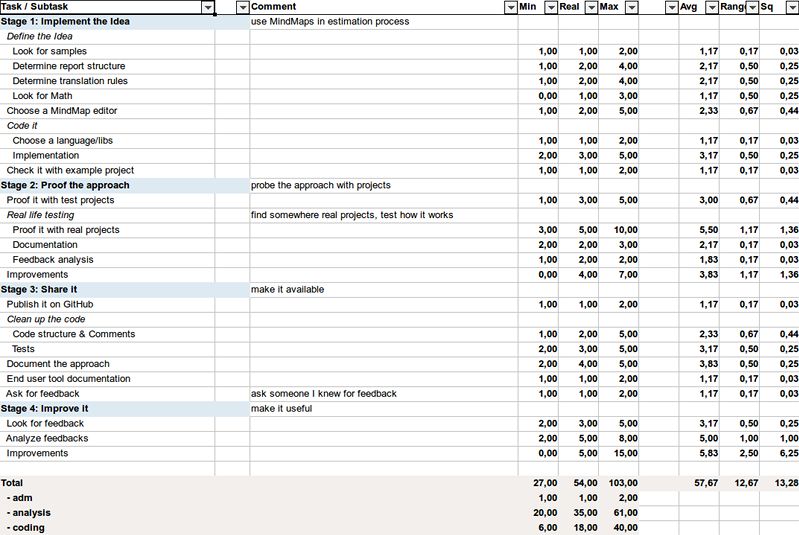
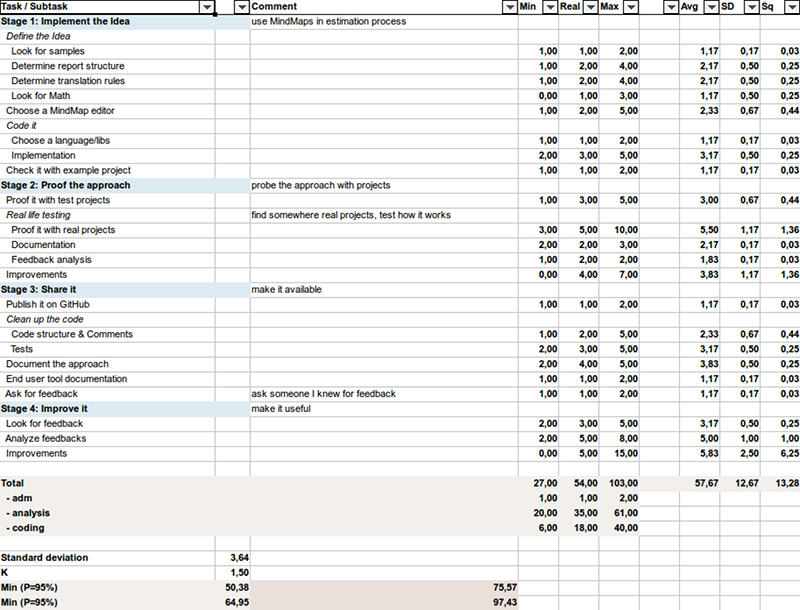
Improvements & documentation

Changed region(s): [[0.0, 0.0, 1.0, 1.0], [0.2703, 0.8972, 0.3304, 1.0]]

diff --git a/src/estimate.py b/src/estimate.py
@@ -117,16 +117,10 @@ class Node:
         return None
 
 
+
 # processor helper
 class Processor:
     """Helper class which does all transformation work"""
-
-    SORTING = False
-
-    class Colors:
-        SECTION_0 = '#DEEAF2'
-        TOTAL     = '#F2EFED'
-        FINAL     = '#E9DFDB'
 
     import re
     RE_ESTIMATE = re.compile("estimate\\s*=(\\s*\\d+\\s*)[/](\\s*\\d+\\s*)[/](\\s*\\d+\\s*)")
@@ -139,19 +133,40 @@ class Processor:
         'impl': ('comment', '')
     }
 
+    @staticmethod
+    def _loadTheme(path):
+        if (path is not None):
+            import importlib
+            module = importlib.load_module(path)
+            theme = module.Theme
+            if (theme is not None): return theme
+
+        class Theme:
+            SECTION_0 = '#DEEAF2'
+            TOTAL     = '#F2EFED'
+            FINAL     = '#E9DFDB'
+
+        return Theme
+
+    #
+    def __init__(self, options):
+        self._sorting = options.sorting and True or False
+        self._theme = Processor._loadTheme(options.theme)
+        self._p99 = options.p99 and True or False
 
     @staticmethod
     def _text(xmlNode):
+        # TODO: case insensitive attributes
         return xmlNode.getAttribute('TEXT') # xmind style for attributes
 
-    @staticmethod
-    def _process(parent, xmlNodes):
+    #
+    def _process(self, parent, xmlNodes):
         required = 0
 
         xmlNodes = [ n for n in xmlNodes if n.nodeType == n.ELEMENT_NODE ]
         xmlNodes = [ n for n in xmlNodes if n.tagName == 'node' ]
 
-        if (Processor.SORTING):
+        if (self._sorting):
             xmlNodes.sort(lambda x, y: cmp(Processor._text(x), Processor._text(y)))
 
         for xmlNode in xmlNodes:
@@ -182,7 +197,7 @@ class Processor:
 
             # else
             node = Node(parent, title)
-            node = Processor._process(node, xmlNode.childNodes)
+            node = self._process(node, xmlNode.childNodes)
             if (node is not None):
                 parent.append(node)
                 required = 1
@@ -190,9 +205,8 @@ class Processor:
         if (required): return parent
         return None
 
-
-    @staticmethod
-    def parse(path):
+    # 
+    def parse(self, path):
 
         # parse mm document
         from xml.dom import minidom
@@ -202,26 +216,25 @@ class Processor:
 
         # transform document to nodelist
         root = Node(None, "root")
-        root = Processor._process(root, xmlmap.childNodes)
+        root = self._process(root, xmlmap.childNodes)
         return root
 
-    @staticmethod
-    def _collect(root):
-        """ it collects the given hierarchy to list of lines """
-        lines = []
-        def _collectChilds(node):
-            for n in node.childs():
-                lines.append(n)
-                _collectChilds(n)
-        _collectChilds(root)
-        return lines
-
-
-    @staticmethod
-    def _report(root, wb):
+    #
+    def _report(self, root, wb):
+        # see https://en.wikipedia.org/wiki/Three-point_estimation
 
         # first transform tree to lines
-        lines = Processor._collect(root)
+        def _collect(root):
+            """ it collects the given hierarchy to list of lines """
+            lines = []
+            def _collectChilds(node):
+                for n in node.childs():
+                    lines.append(n)
+                    _collectChilds(n)
+            _collectChilds(root)
+            return lines
+
+        lines = _collect(root)
 
         # helper functions
         cell = lambda a, b: "%s%s" % (a, (1+b))
@@ -241,12 +254,12 @@ class Processor:
         f_numbers = format({'bold': True, 'num_format': '0.00'})
         f_comment = format({'text_wrap': True})
 
-        f_section_0 = format({'bold': True, 'bg_color': Processor.Colors.SECTION_0})
+        f_section_0 = format({'bold': True, 'bg_color': self._theme.SECTION_0})
         f_section_1 = format({'italic': True, 'text_wrap': True})
 
-        f_total           = format({'bold': True, 'bg_color': Processor.Colors.TOTAL})
-        f_total_numbers   = format({'bold': True, 'bg_color': Processor.Colors.TOTAL, 'num_format': '0.00'})
-        f_final_numbers   = format({'bold': True, 'bg_color': Processor.Colors.FINAL, 'num_format': '0.00'})
+        f_total           = format({'bold': True, 'bg_color': self._theme.TOTAL})
+        f_total_numbers   = format({'bold': True, 'bg_color': self._theme.TOTAL, 'num_format': '0.00'})
+        f_final_numbers   = format({'bold': True, 'bg_color': self._theme.FINAL, 'num_format': '0.00'})
 
         # create & init sheet
         wb_sheet = wb.add_worksheet()
@@ -271,8 +284,8 @@ class Processor:
         wb_sheet.write_string(cell('G', row), 'Max', f_header)             # G: estimate
         wb_sheet.write_string(cell('H', row), '', f_header)                # H: empty
         wb_sheet.write_string(cell('I', row), 'Avg', f_header)             # I: weighted mean
-        wb_sheet.write_string(cell('J', row), 'Range', f_header)           # J: weighted diff
-        wb_sheet.write_string(cell('K', row), 'Sq', f_header)              # K: squared diff
+        wb_sheet.write_string(cell('J', row), 'SD', f_header)              # J: standard deviation
+        wb_sheet.write_string(cell('K', row), 'Sq', f_header)              # K: squared deviation
 
         # lines
         roles_rows = {}
@@ -292,7 +305,7 @@ class Processor:
                 role_rows.append(row)
 
             row_options = {}
-            if (role): 
+            if (role):
                 row_options['hidden'] = True
                 row_options['collapsed'] = True
             wb_sheet.set_row(row, options=row_options)
@@ -318,8 +331,8 @@ class Processor:
 
                 if (not role):
                     wb_sheet.write_formula(cell('I', row), '=(%s+4*%s+%s)/6' % (cell('E', row), cell('F', row), cell('G', row)), f_numbers) # I (weighted mean)
-                    wb_sheet.write_formula(cell('J', row), '=(%s-%s)/6' % (cell('G', row), cell('E', row)), f_numbers)                      # J (weighted diff)
-                    wb_sheet.write_formula(cell('K', row), '=%s*%s' % (cell('J', row), cell('J', row)), f_numbers)                          # K (squared diff)
+                    wb_sheet.write_formula(cell('J', row), '=(%s-%s)/6' % (cell('G', row), cell('E', row)), f_numbers)                      # J (standard deviation)
+                    wb_sheet.write_formula(cell('K', row), '=%s*%s' % (cell('J', row), cell('J', row)), f_numbers)                          # K (squared deviation)
 
         # total
         row_lines = (row_lines[0], row_lines[-1])
@@ -374,56 +387,84 @@ class Processor:
         # one extra line
         row_footer += 1
 
-        # sigma
+        # sigma: standard deviation
         row_footer += 1
         row_sigma = row_footer
-        wb_sheet.write_string(cell('A', row_sigma), 'Sigma', f_bold)                                   # A (caption)
+        wb_sheet.write_string(cell('A', row_sigma), 'Standard deviation', f_bold)                      # A (caption)
         wb_sheet.write_formula(cell('C', row_sigma), '=SQRT(%s)' % (cell('K', row_total)), f_numbers)  # C (sigma)
 
-        # kappa
+        # kappa: correction factor
         row_footer += 1
         row_kappa = row_footer
         wb_sheet.write_string(cell('A', row_kappa), 'K', f_bold)     # A (caption)
         wb_sheet.write_number(cell('C', row_kappa), 1.5, f_numbers)  # C (kappa)
 
-        # Min (P=95%)
+        if self._p99:
+            # P=99%, super precision
+            p_title = "P=99%"
+            p_multiplier = 3
+        else:
+            # P=95%, regular precision
+            p_title = "P=95%"
+            p_multiplier = 2
+
+        # Min (P=95/99%)
         row_footer += 1
-        wb_sheet.write_string(cell('A', row_footer), 'Min (P=95%)', f_total)                     # A (caption)
-        wb_sheet.write_string(cell('B', row_footer), '', f_total)                                # B
-        wb_sheet.write_formula(cell('C', row_footer), '=%s-3*%s' % (cell('I', row_total), cell('C', row_sigma)), f_total_numbers)  # C (min)
-        wb_sheet.write_formula(cell('D', row_footer), '=%s*%s' % (cell('C', row_footer), cell('C', row_kappa)),  f_final_numbers)  # D (modified)
+        wb_sheet.write_string(cell('A', row_footer), 'Min (%s)' % p_title, f_total)  # A (caption)
+        wb_sheet.write_string(cell('B', row_footer), '', f_total)                    # B
+        wb_sheet.write_formula(cell('C', row_footer), '=%s-%s*%s' % (cell('I', row_total), p_multiplier, cell('C', row_sigma)), f_total_numbers)  # C (min)
+        wb_sheet.write_formula(cell('D', row_footer), '=%s*%s' % (cell('C', row_footer), cell('C', row_kappa)),  f_final_numbers)                 # D (modified)
 
-        # Max (P=95%)
+        # Max (P=95/99%)
         row_footer += 1
-        wb_sheet.write_string(cell('A', row_footer), 'Min (P=95%)', f_total)                     # A (caption)
-        wb_sheet.write_string(cell('B', row_footer), '', f_total)                                # B
-        wb_sheet.write_formula(cell('C', row_footer), '=%s+3*%s' % (cell('I', row_total), cell('C', row_sigma)), f_total_numbers)  # C (min)
-        wb_sheet.write_formula(cell('D', row_footer), '=%s*%s' % (cell('C', row_footer), cell('C', row_kappa)),  f_final_numbers)  # D (modified)
+        wb_sheet.write_string(cell('A', row_footer), 'Min (%s)' % p_title, f_total)  # A (caption)
+        wb_sheet.write_string(cell('B', row_footer), '', f_total)                    # B
+        wb_sheet.write_formula(cell('C', row_footer), '=%s+%s*%s' % (cell('I', row_total), p_multiplier, cell('C', row_sigma)), f_total_numbers)  # C (min)
+        wb_sheet.write_formula(cell('D', row_footer), '=%s*%s' % (cell('C', row_footer), cell('C', row_kappa)),  f_final_numbers)                 # D (modified)
 
-
-    @staticmethod
-    def report(root, path):
-        # create a report
+    # create a report
+    def report(self, root, path):
         import xlsxwriter
         with xlsxwriter.Workbook(path + '.xlsx') as wb:
-            Processor._report(root, wb)
+            self._report(root, wb)
 
 # let's dance
 if __name__ == "__main__":
 
-    import getopt
-    usage = 'Usage: estimate.py mindmapfile.mm'
+    import argparse
 
-    if (len(sys.argv) < 2):
-        print usage
-        sys.exit(-1)
+    parser = argparse.ArgumentParser(description='Converts freemind estimation to xlsx report.')
 
-    opts, args = getopt.getopt(sys.argv[1:], 'b')
-    if len(args) not in (0, 1, 2):
-        print usage
-        sys.exit(1)
+    parser.add_argument(
+        '--sort', '-s',
+        action='store_true',
+        dest='sorting',
+        help='sort children nodes by title'
+    )
 
-    filename = args[0]
-    root = Processor.parse(filename)
-    Processor.report(root, filename)
+    parser.add_argument(
+        '--theme',
+        action='store',
+        dest='theme',
+        help='use a given .py file as a theme'
+    )
+
+    parser.add_argument(
+        '--p99',
+        action='store_true',
+        dest='p99',
+        help='Use P=99%% instead of P=95%%'
+    )
+
+    parser.add_argument(
+        'filename',
+        help='a freemind (mindmap) file to be converted'
+    )
+
+    options = parser.parse_args()
+    filename = options.filename
+
+    processor = Processor(options)
+    root = processor.parse(filename)
+    processor.report(root, filename)
 

diff --git a/README.md b/README.md
@@ -1,6 +1,10 @@
 # estimation-tools
 
-See [wiki](https://github.com/zhuj/estimation-tools/wiki "wiki") for more details.
+
+It could help you to estimate a scope of work with [Work breakdown structure](https://en.wikipedia.org/wiki/Work_breakdown_structure "Work breakdown structure") and [Three-point estimation](https://en.wikipedia.org/wiki/Three-point_estimation "Three-point estimation").
+See [Project Wiki](https://github.com/zhuj/estimation-tools/wiki "Wiki") for more details.
+
+*** 
 
 It converts a Mind Mapped project decomposition like [this](https://github.com/zhuj/estimation-tools/raw/master/example/Estimation%20Tool.xmind): ![this](https://github.com/zhuj/estimation-tools/raw/master/example/Estimation%20Tool.xmind.png "The MindMap decomposition screenshot")
 into an Xlsx estimation report like [this](https://github.com/zhuj/estimation-tools/raw/master/example/Estimation%20Tool.mm.xlsx "The report"): ![this](https://github.com/zhuj/estimation-tools/raw/master/example/Estimation%20Tool.mm.xlsx.png "The report screenshot")
